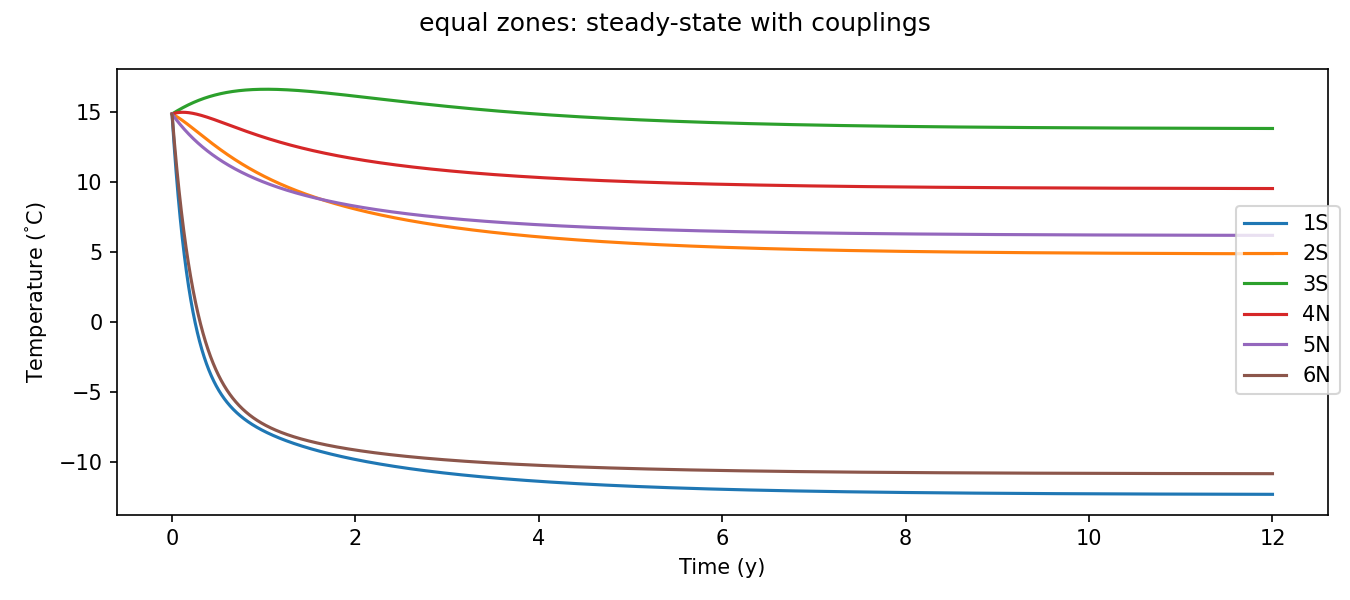
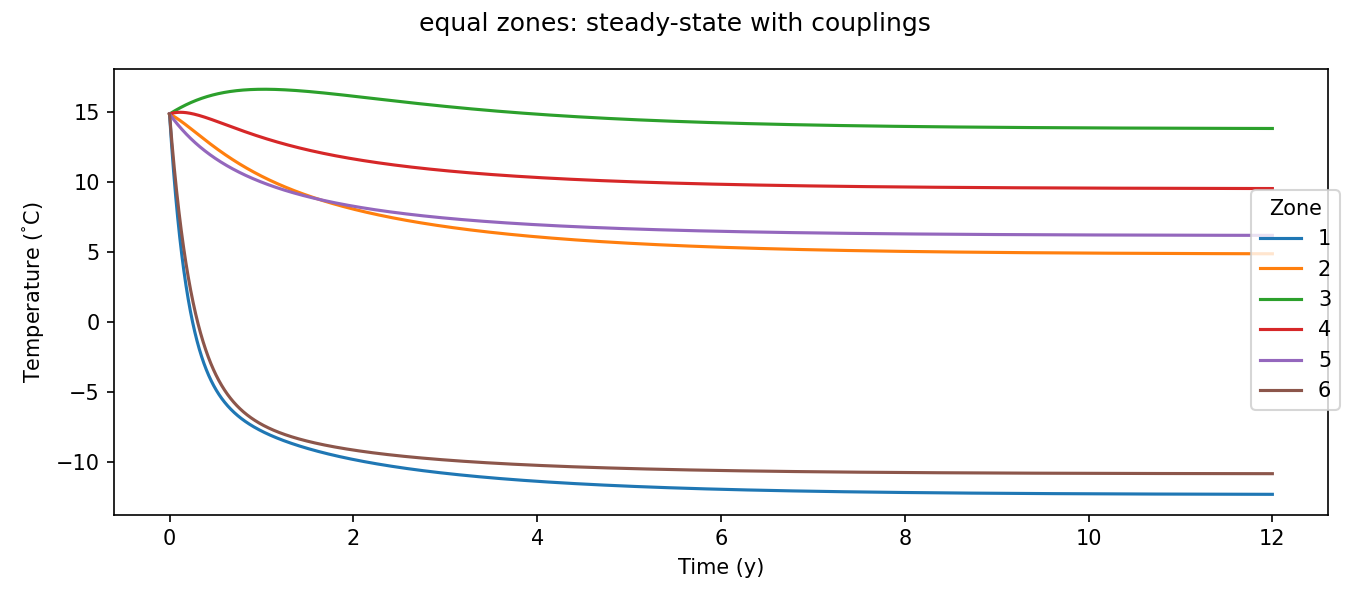
made it so you can change colours of the plot easy

diff --git a/assignment_two/solvers/plotters.py b/assignment_two/solvers/plotters.py
@@ -2,6 +2,8 @@ import time
 import matplotlib.pyplot as plt
 from scipy.integrate import solve_ivp
 from solvers.odes import dtemperature_dtime
+from mycolorpy import colorlist as mcp
+import numpy as np
 
 # todo: create module for volcano model:
 # from solvers.volcanoes import emissions
@@ -18,11 +20,11 @@ def plot_integrator_results(title_string, filename_string, args: tuple):
 
     y0_reshaped = initial_temperatures.reshape(6)
 
-    # setup lists to collect results for plotting
-    all_t = []
-    all_temperatures = []
-    delta_t = []
-    # plot_titles = []
+    # # setup lists to collect results for plotting
+    # all_t = []
+    # all_temperatures = []
+    # delta_t = []
+    # # plot_titles = []
 
     # Loop over each solver and emission type, and add the time array and mass array to all_t, all_M
     for solver in solvers:
@@ -36,26 +38,30 @@ def plot_integrator_results(title_string, filename_string, args: tuple):
         t = sol.t
         temperature = sol.y.T
 
-        all_t.append(t)
-        all_temperatures.append(temperature)
-        delta_t.append(t_end - t_start)  # the times taken to compute the integration
+        # all_t.append(t)
+        # all_temperatures.append(temperature)
+        # delta_t.append(t_end - t_start)  # the times taken to compute the integration
         # plot_titles.append(solver + ", " + model.replace("_", " "))
 
     # Plotting
+    # fig = plt.figure(figsize=(9, 4), dpi=150)
     fig = plt.figure(figsize=(9, 4), dpi=150)
-    plt.plot(all_t[0] / 3.154e+7, all_temperatures[0] - 273.15)  # convert to years and celsius
+
+    colors=['#0900FF', '#7972FF', '#BBB7FF', '#F9B7FF', '#F264FF', '#E900FF']
+
+    for i in range(np.shape(temperature)[1]):
+        plt.plot(t / 3.154e+7, temperature[:,i] - 273.15, color = colors[i])  # convert to years and celsius
     plt.xlabel('Time (y)')
     plt.ylabel(r"Temperature ($^\degree$C)")
     # plt.title(plot_titles[0] + ", delta t = " + "{:.2E}".format(delta_t[0]) + "s")
 
     plt.suptitle(title_string)
-    fig.legend(['1S', '2S', '3S', '4N', '5N', '6N'
-                ], loc="center right")
+    fig.legend(['1', '2', '3', '4', '5', '6'
+                ], loc="center right", title='Zone')
     plt.tight_layout()
 
     fig_filename = "plots/" + filename_string + ".png"
     plt.savefig(fig_filename)
-
     plt.show()
 
 

diff --git a/assignment_two/main.py b/assignment_two/main.py
@@ -2,15 +2,14 @@ import numpy as np
 from solvers.plotters import plot_integrator_results
 
 # model configuration
-title_string = "equal zones: steady-state with couplings"
-filename_string = "steadystate_coupling_equal_zones"
-initial_temperatures = 288 * np.ones((6,))  # avg temp today: 288 K
+title_string = "equal zones: -70$\deg$C start"
+filename_string = "steadystate_coupling_equal_zones_neg70"
+initial_temperatures = (-70 + 273)  * np.ones((6,))  # avg temp today: 15degC
 coefficients = np.ones((6,))
 volcano_model = [None]  # can iterate over [None]
 solvers = ['LSODA']  # 'DOP853', cut-paste if desired
 compute_couplings = True
 # todo: unequal zone selection
-
 
 def main():
     plot_integrator_results(title_string, filename_string,
